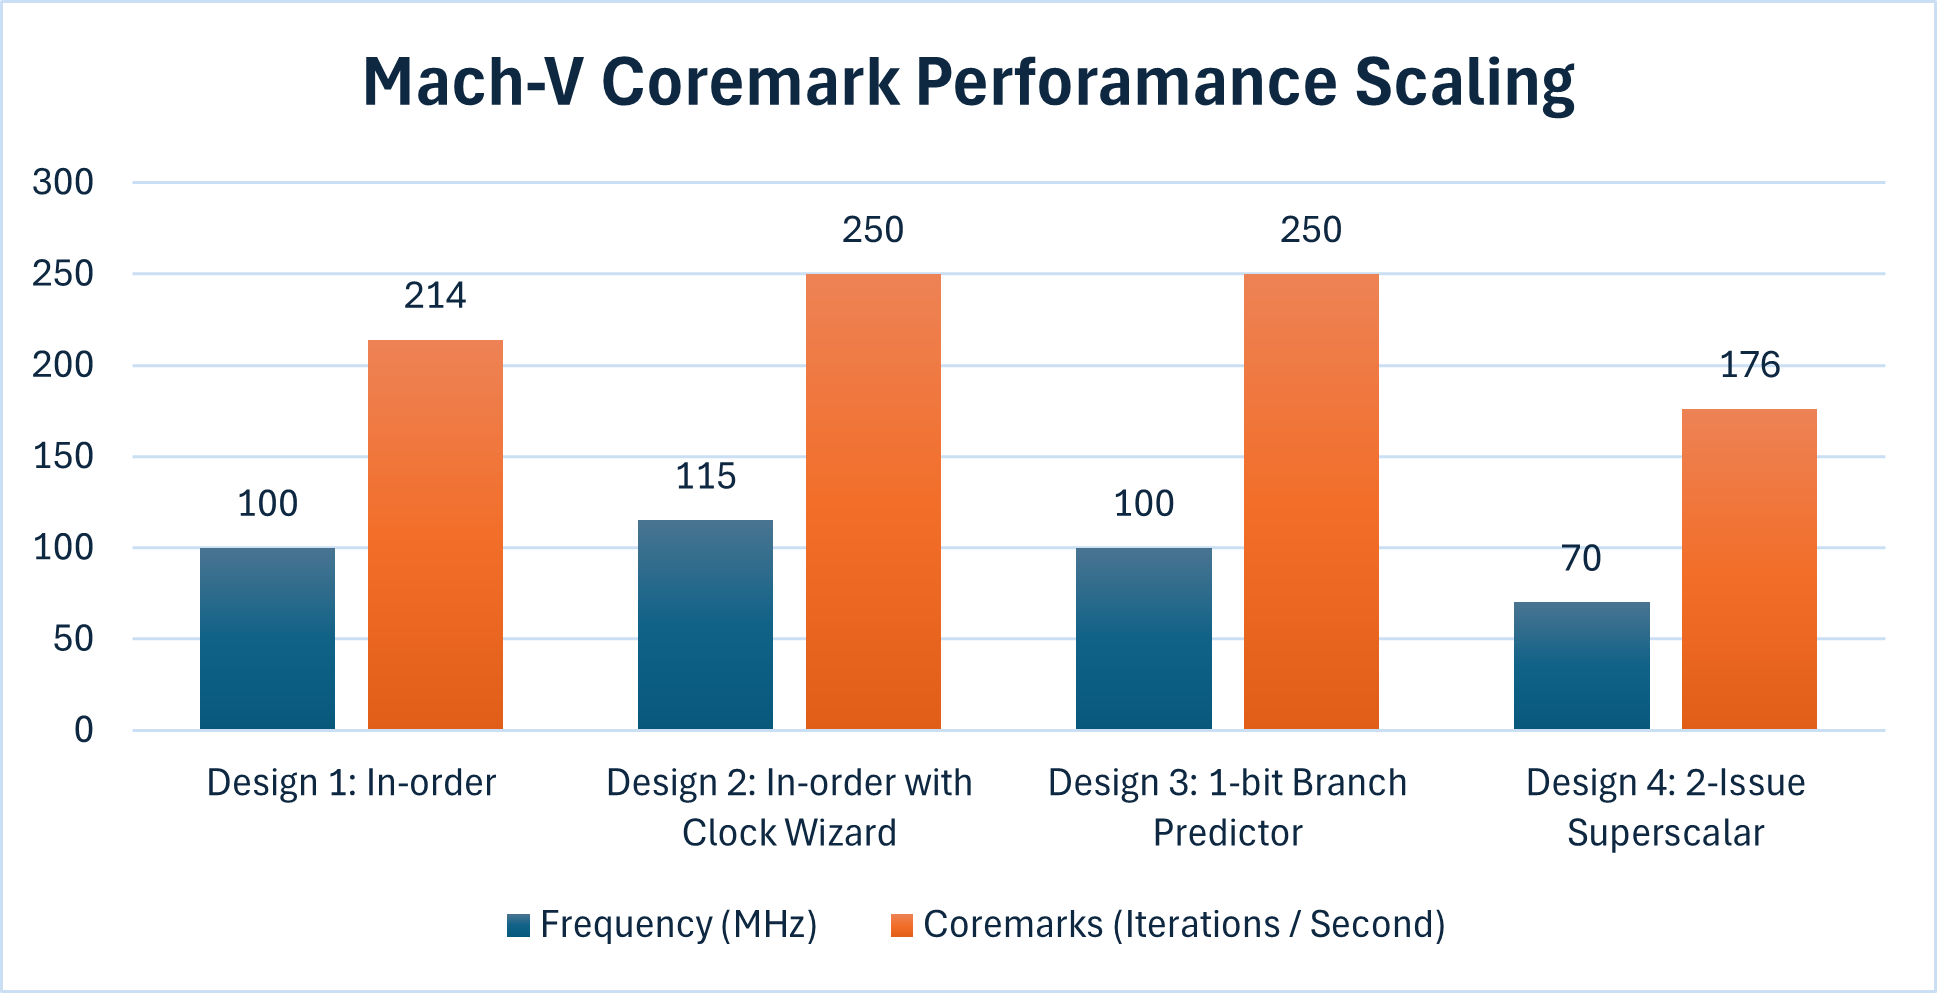
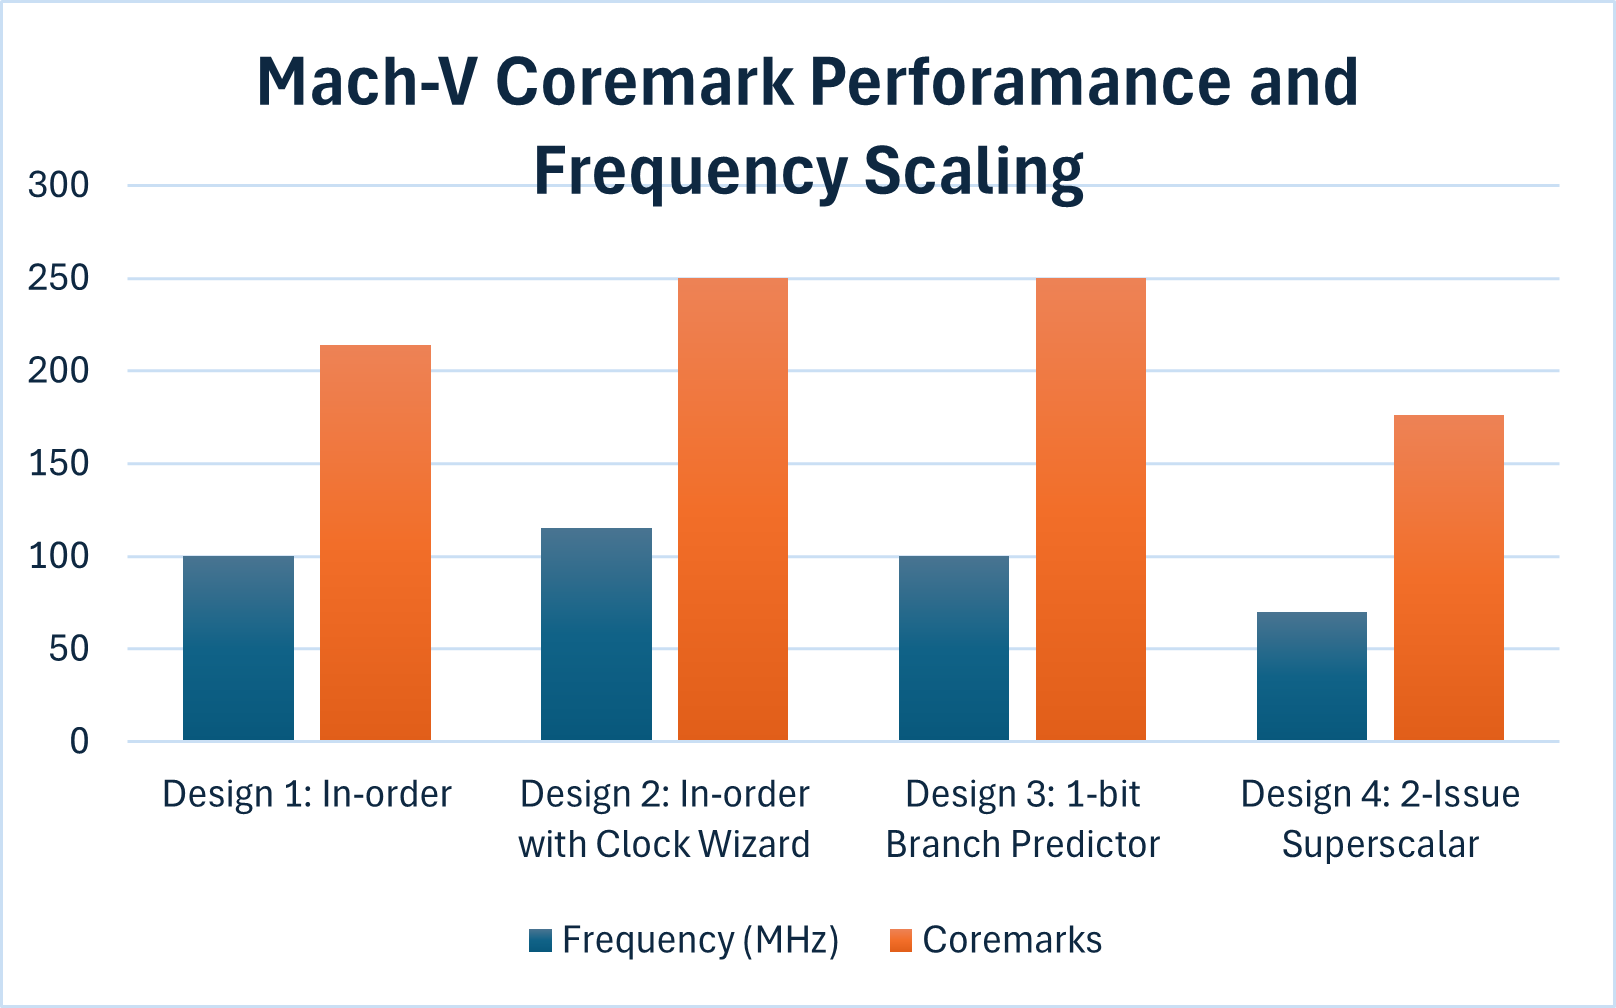
Update docs

diff --git a/docs/hw/overview.md b/docs/hw/overview.md
@@ -2,7 +2,12 @@
 
 ## Performance Benchmark
 
-Here is the performance scaling of the Mach-V core running the CoreMark benchmark.
+Here is the normalized performance of the Mach-V core running the CoreMark benchmark, measured in CoreMarks/MHz.
+
+![CoreMark Performance MHz](../assets/images/mach-v-coremark-mhz-performance-light.png#only-light)
+![CoreMark Performance MHz](../assets/images/mach-v-coremark-mhz-performance-dark.png#only-dark)
+
+Here is the performance and frequency scaling of the Mach-V core running the CoreMark benchmark.
 
 ![CoreMark Performance](../assets/images/mach-v-coremark-performance-light.png#only-light)
 ![CoreMark Performance](../assets/images/mach-v-coremark-performance-dark.png#only-dark)
